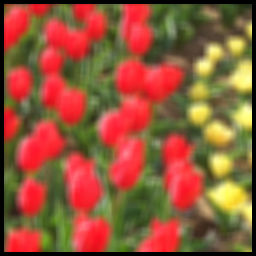
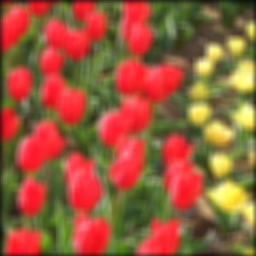
Ajustes no filtro intergral para considerar as bordas

Changed region(s): [[0.0, 0.0, 1.0, 1.0]]

diff --git a/main.py b/main.py
@@ -1,14 +1,9 @@
-#===============================================================================
-# Exemplo: segmentação de uma imagem em escala de cinza.
-#-------------------------------------------------------------------------------
-# Autor: Bogdan T. Nassu
+
+# Autores: Gabriel Baumgarten e Henrique Da Gama
 # Universidade Tecnológica Federal do Paraná
 #===============================================================================
 
-from cProfile import label
-from calendar import calendar
 import sys
-import timeit
 import numpy as np
 import cv2
 import math
@@ -152,21 +147,22 @@ def filtro_integral(img):
                 soma = 0
 
                 if coluna-janela-1 >0:
-                    soma -= img_buffer[linha+janela][coluna-janela-1]
+                    soma -= img_buffer[linha+janela if linha+janela < img.shape[0] else img.shape[0]-1][coluna-janela-1]
                 else:
-                    soma -= img_buffer[linha+janela][coluna-janela]
+                    soma -= img_buffer[linha+janela if linha+janela < img.shape[0] else img.shape[0]-1][coluna-janela if coluna-janela >= 0 else 0]
 
                 if linha-janela-1 >0:
-                    soma -= img_buffer[linha-janela-1][coluna+janela]
+                    soma -= img_buffer[linha-janela-1][coluna+janela if coluna+janela < img.shape[1] else img.shape[1]-1]
                 else:
-                    soma -= img_buffer[linha-janela][coluna+janela]
+                    soma -= img_buffer[linha-janela if linha-janela >= 0 else 0 ][coluna+janela if coluna+janela < img.shape[1] else img.shape[1]-1]
 
                 if coluna-janela-1 >0 and linha-janela-1 >0:
                     soma += img_buffer[linha-janela-1][coluna-janela-1]
                 else:
-                    soma += img_buffer[linha-janela][coluna-janela]
+                    soma += img_buffer[linha-janela if linha-janela >= 0 else 0][coluna-janela if coluna-janela >= 0 else 0]
 
-                soma += img_buffer[linha+janela][coluna+janela]
+                soma += img_buffer[linha+janela if linha+janela < img.shape[0] else img.shape[0]-1][coluna+janela if coluna+janela < img.shape[1] else img.shape[1]-1]
+
 
                 img_saida[linha][coluna] = soma/(WINDOW_SIZE*WINDOW_SIZE)
     else:
@@ -192,26 +188,26 @@ def filtro_integral(img):
 
             janela = math.floor(WINDOW_SIZE/2)
 
-            for linha in range(janela, img.shape[0] - janela ):
-                for coluna in range(janela, img.shape[1] - janela ):
+            for linha in range( img.shape[0]  ):
+                for coluna in range( img.shape[1] ):
                     soma = 0
 
                     if coluna-janela-1 >0:
-                        soma -= img_buffer[linha+janela][coluna-janela-1][canal]
+                        soma -= img_buffer[linha+janela if linha+janela < img.shape[0] else img.shape[0]-1][coluna-janela-1][canal]
                     else:
-                        soma -= img_buffer[linha+janela][coluna-janela][canal]
+                        soma -= img_buffer[linha+janela if linha+janela < img.shape[0] else img.shape[0]-1][coluna-janela if coluna-janela >= 0 else 0][canal]
 
                     if linha-janela-1 >0:
-                        soma -= img_buffer[linha-janela-1][coluna+janela][canal]
+                        soma -= img_buffer[linha-janela-1][coluna+janela if coluna+janela < img.shape[1] else img.shape[1]-1][canal]
                     else:
-                        soma -= img_buffer[linha-janela][coluna+janela][canal]
+                        soma -= img_buffer[linha-janela if linha-janela >= 0 else 0 ][coluna+janela if coluna+janela < img.shape[1] else img.shape[1]-1][canal]
 
                     if coluna-janela-1 >0 and linha-janela-1 >0:
                         soma += img_buffer[linha-janela-1][coluna-janela-1][canal]
                     else:
-                        soma += img_buffer[linha-janela][coluna-janela][canal]
+                        soma += img_buffer[linha-janela if linha-janela >= 0 else 0][coluna-janela if coluna-janela >= 0 else 0][canal]
 
-                    soma += img_buffer[linha+janela][coluna+janela][canal]
+                    soma += img_buffer[linha+janela if linha+janela < img.shape[0] else img.shape[0]-1][coluna+janela if coluna+janela < img.shape[1] else img.shape[1]-1][canal]
 
                     img_saida[linha][coluna][canal] = soma/(WINDOW_SIZE*WINDOW_SIZE)
 
